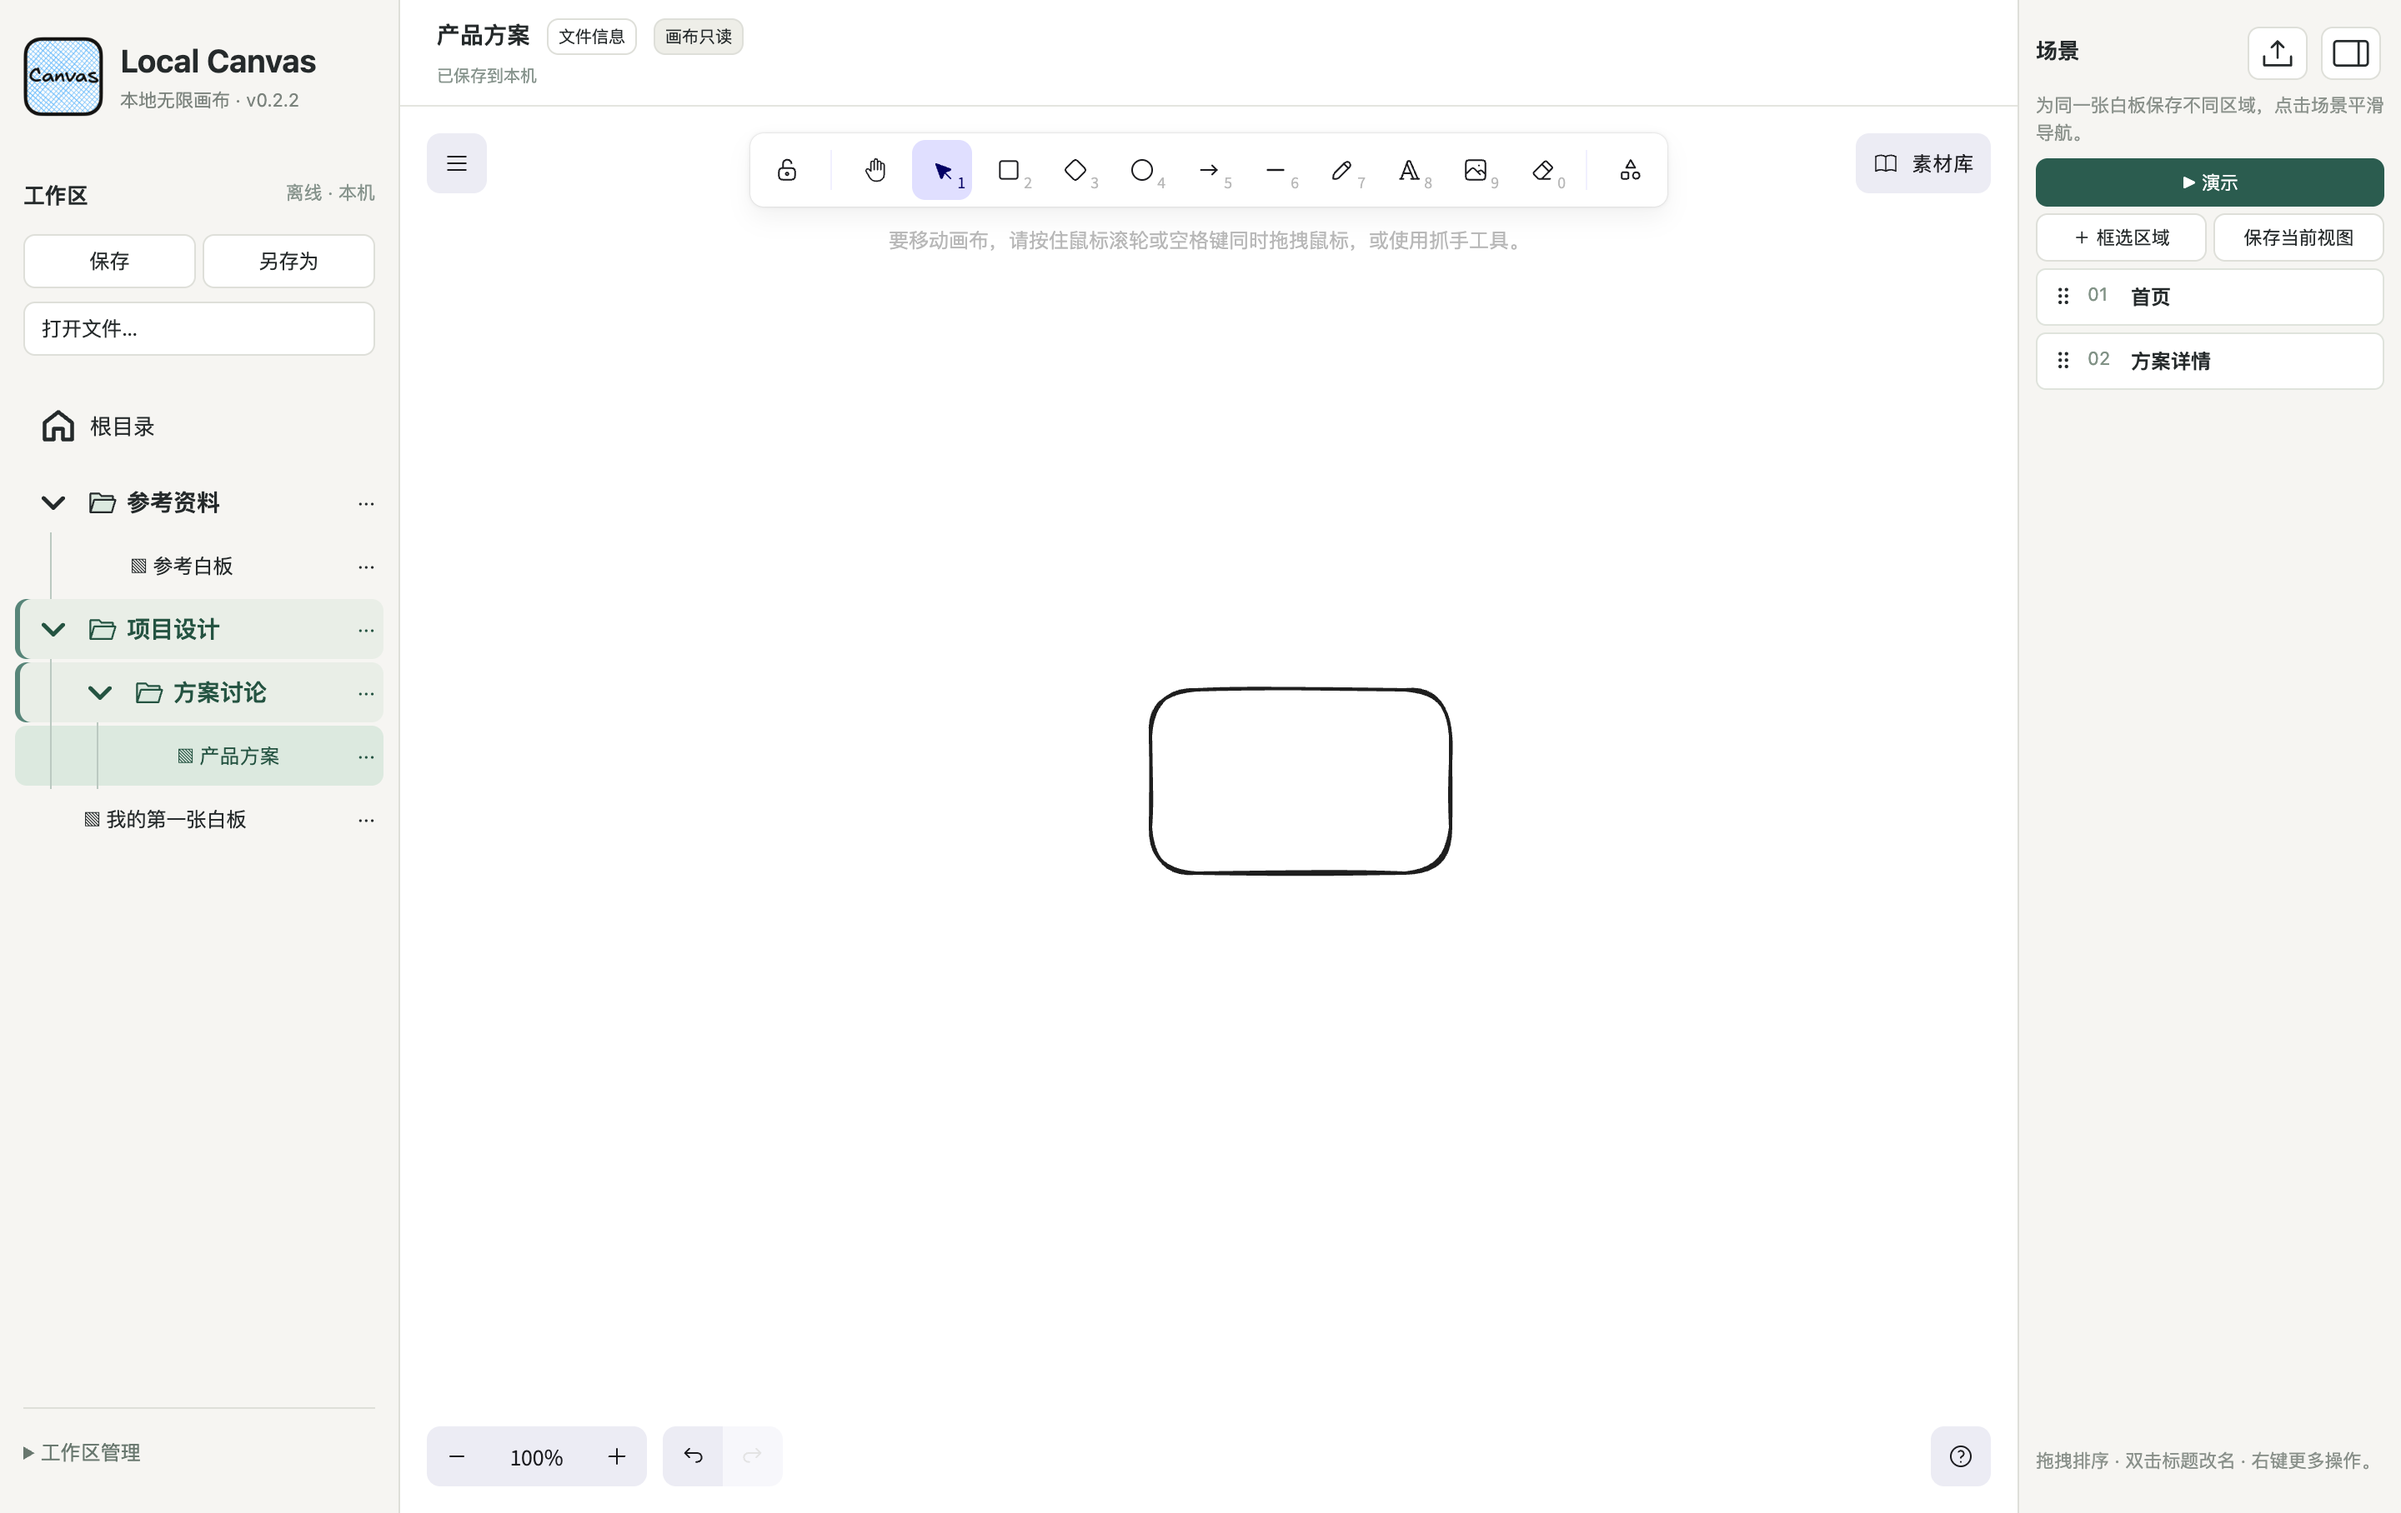
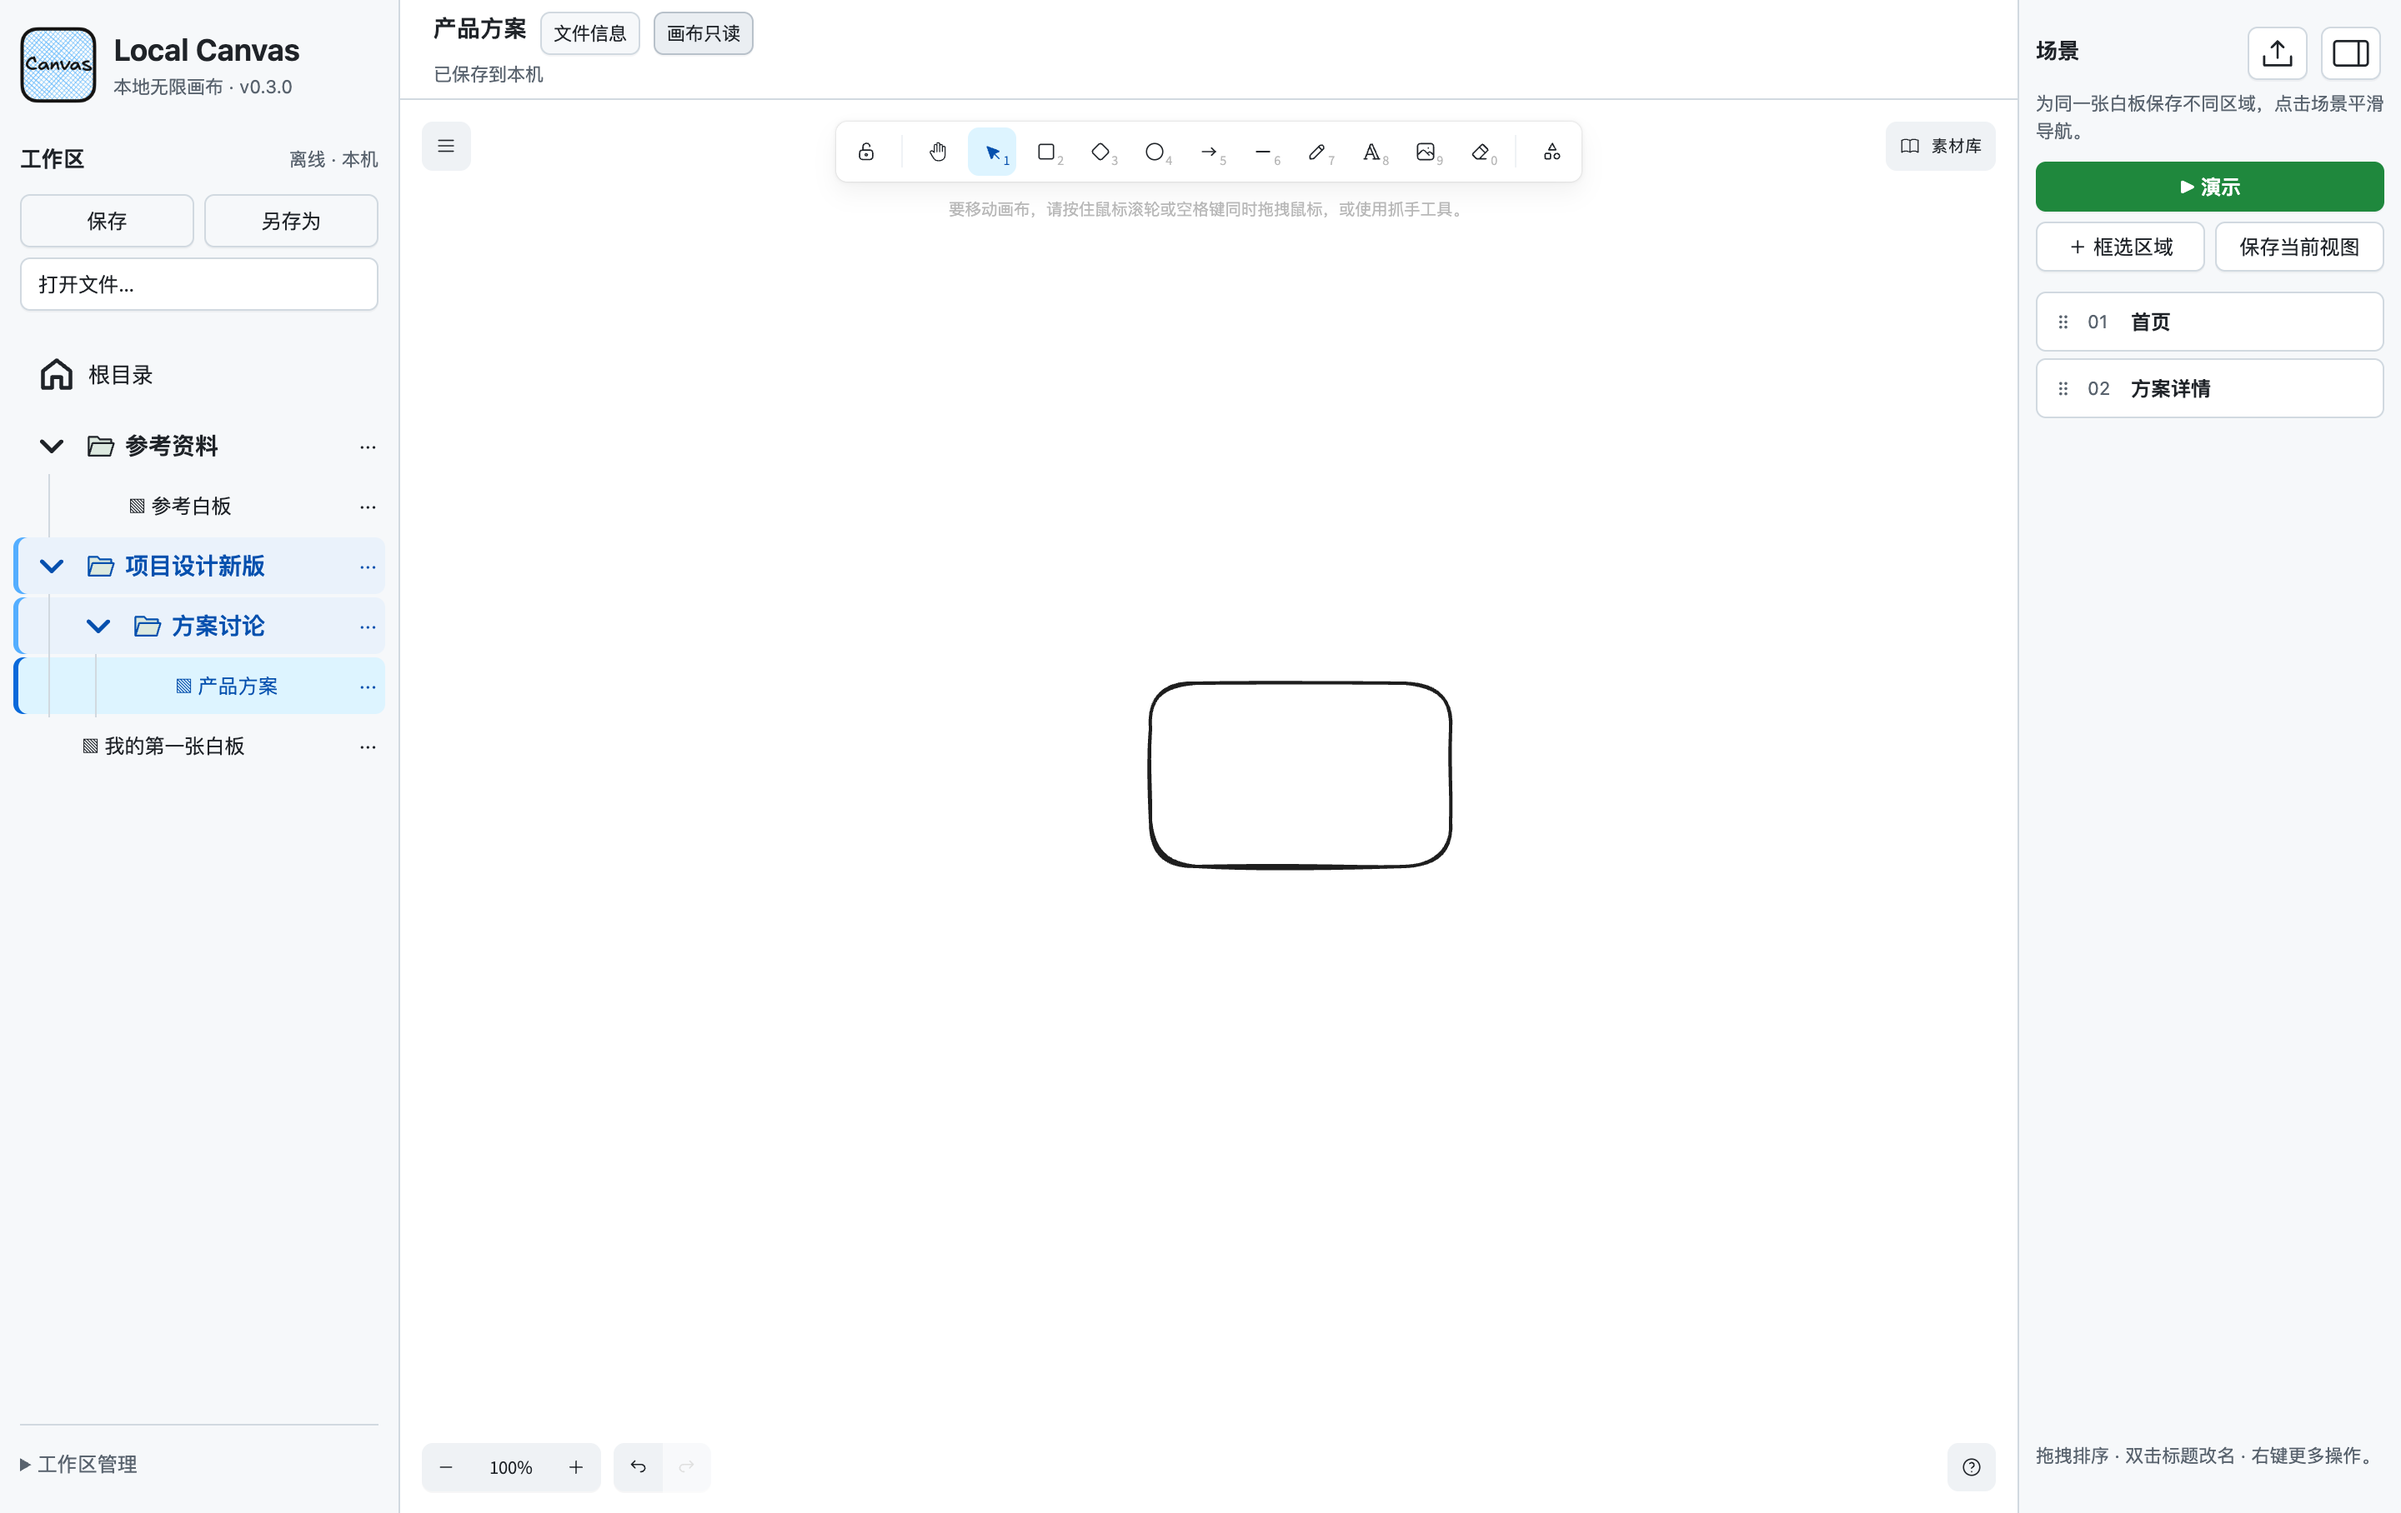
docs: showcase 0.3.0 GitHub-style workspace and separated menu forms

diff --git a/README.md b/README.md
@@ -17,6 +17,7 @@
 | 导航时长 | 编辑侧栏固定 0.5 秒；演示中的手动翻页与自动播放可选 0.5、1、1.5、2 秒 |
 | 全屏场景演示 | 从排序第一项开始，底部手动翻页或自动演示；图层面板可拖拽排序、右键原位改名，退出恢复编辑视图 |
 | 循环演示与只读浏览 | 自动演示可开启循环，末页回首页继续；独立“画布只读”禁止元素编辑、拖动和删除，同时允许平移缩放，保留原生工具锁的连续绘制语义 |
+| 统一工作区界面 | GitHub/Primer 风格浅色主题，灰白分区、蓝色选中态、细边框和紧凑间距；操作菜单、输入表单与危险操作独立分组 |
 | 文件打开与保存 | 系统窗口选择文件，手动保存写回原文件；另存为选择新位置，“文件信息”查看路径。内容自动保存到本机恢复副本，外部文件变更时拒绝覆盖 |
 | 演示临时画笔 | 直接使用 Excalidraw 原生自由画笔和样式面板，支持描边、背景、粗细及透明度；翻页或退出清除 |
 | 集中导出 | 右上角统一入口，可框选区域导出 PNG、SVG、PDF；支持整板、场景分页 PDF 及完整可编辑文档 |
@@ -25,11 +26,19 @@
 
 ## 编辑与场景管理
 
-当前桌面版本：**0.2.2**。文件树使用清晰缩进与层级引导线，当前文档及全部上级文件夹联动高亮；演示面板统一字号，支持循环开关。界面、macOS 应用、Windows 安装与免安装版使用同一款黑边框、透明连续圆角的 Canvas 网格手写 Logo。
+当前桌面版本：**0.3.0**。整体使用 GitHub/Primer 风格浅色界面；保留原生绘图、文件管理、可靠保存、场景与演示能力。Mac 图标使用独立平台布局，已在 Finder 中与系统应用并排核查显示占比，应用内与 Windows 的 Logo 样式不变。
 
 <img src="docs/local-canvas/logo.png" width="128" alt="Canvas 网格手写 Logo：黑色边框、透明连续圆角" />
 
-![Local Canvas 0.2.2 实机文件树与黑框新 Logo](docs/local-canvas/files-current.png)
+![Local Canvas 0.3.0 实机：GitHub 风格工作区、文件树和场景列表](docs/local-canvas/files-current.png)
+
+三点菜单只显示清楚分组的操作项。选择重命名或移动后才显示对应表单，输入与确认按钮分区；选择移动目标不会立即执行，回收站操作需确认。
+
+| 操作列表 | 重命名表单 | 移动表单 |
+| --- | --- | --- |
+| ![实机分组菜单](docs/local-canvas/menu-actions.png) | ![实机重命名输入与确认区](docs/local-canvas/menu-rename.png) | ![实机移动目标与确认区](docs/local-canvas/menu-move.png) |
+
+设计参考：[Primer ActionMenu](https://primer.style/product/components/action-menu/)、[Primer 色彩用法](https://primer.style/product/getting-started/foundations/color-usage/)。仅借鉴界面风格，不使用 GitHub 账户或联网服务。
 
 [演示面板统一字号实机截图](docs/local-canvas/presentation-fonts.png)
 
@@ -39,7 +48,7 @@
 
 临时画笔允许连续书写多笔，翻页及退出时清除；不写入文档、备份或 PDF。编辑和备份仍使用完整文档或 `.excalidraw` 格式。
 
-![0.2.2 演示面板：循环开关与独立的移动、停留时间](docs/local-canvas/presentation-loop.png)
+![演示面板：循环开关与独立的移动、停留时间](docs/local-canvas/presentation-loop.png)
 
 自动演示每页停留可选 1、2、3、5、10、15、30 秒（默认 3 秒），与移动时长分别设置。循环默认关闭：关闭时到末页停止，开启时自动回到首页继续；记住开关偏好，但不会在重启后自行播放。打开图层面板或启用临时画笔时暂停自动播放。
 

diff --git a/desktop/VALIDATION.md b/desktop/VALIDATION.md
@@ -1,5 +1,14 @@
 # Milestone validation — 2026-10-17
 
+## 0.3.0 — 2026-10-25
+
+- Production build and 12 unit/resource checks passed, including regular/retina ICNS entries and decoded RGBA bounds for the Mac platform icon (transparent padding and approximately 832px artwork).
+- Actual Mac arm64 packaged application passed the extended workspace regression: keyboard-triggered row-local menu, action groups without embedded fields, destructive styling, independent focused rename form, successful rename, non-empty-folder error in the popover, cancel without deletion, Home/End/Escape focus navigation, choosing a move target without moving until confirmation, ancestor highlighting, native read-only protection, looping presentation, uniform fonts and restart preferences.
+- The first complete editor regression attempt stopped at the previously observed native temporary-ink undo assertion. A second full packaged run passed drawing/undo/redo, scene selection/reordering/navigation, fullscreen layers/autoplay/ink, file links/conflict protection, graphics/PDF/document exports/imports, backup/restore, migration, close-time flush and restart. This is not a claim that the underlying intermittent ink-history issue was fixed.
+- Finder icon view on macOS 26.6.2 was inspected side-by-side with a system Calculator reference. The platform-specific ICNS showed comparable visible size and no obvious extra surrounding plate. The temporary reference link and task-created Finder window were cleaned up; no installed application was replaced and no icon cache was reset.
+- Mac packaged ICNS matches the committed source; deep/strict ad-hoc signature verification and ZIP integrity checks passed. Windows main EXE, NSIS installer and portable launcher retain the approved custom icon, and both executable archive tests passed. All 193 packaged JS/CSS files match byte-for-byte between Mac and Windows. No Windows runtime test, Apple notarization or Authenticode signing.
+- New menu screenshots are element captures from the running packaged app, not design mockups; overall and presentation/export screenshots were refreshed from actual regression runs.
+
 ## 0.2.2 — 2026-10-25
 
 - Production build and all 11 unit/resource checks passed.

diff --git a/desktop/CHANGELOG.md b/desktop/CHANGELOG.md
@@ -1,5 +1,13 @@
 # 修改记录
 
+## 2026-10-25 · 0.3.0 GitHub 风格 UI 与 Mac 图标占比
+
+- 统一为 GitHub/Primer 风格浅色主题：白色画布、浅灰侧栏、细边框、蓝色选中与焦点、绿色主操作和红色危险操作；整理旧 CSS 的重复覆盖。Excalidraw 原生控件采用同色系外观变量，不改写画布元素样式和字体数据；原生深色画布控件不强行套浅色变量。
+- 三点/右键菜单改为纯操作列表，创建、重命名/移动、回收站按分隔线分组。重命名和移动进入独立就地表单，取消与确认有独立底栏；移动选择不立即执行，回收站增加确认和关联文件不删除说明。
+- 保留空名称校验、非空文件夹保护；异步操作期间禁用表单，错误显示在当前弹层。支持初始焦点、Home/End/上下键、Tab 范围约束和 Esc 关闭；焦点回到触发项。
+- Mac ICNS 使用专用 832px 图像/1024px 画布布局，补齐常规小尺寸 ICNS 资源；在 Finder 中与系统计算器并排检查，显示面积接近且不再有明显的二次底板缩小。应用内与 Windows 仍使用原透明四角 Logo，不改变图形设计。生成脚本新增 mac-icon.swift，产物提交仓库，Windows 打包不需要 Swift。
+- 版本升为 0.3.0。功能与验证状态见 VALIDATION.md；默认分支仅同步说明和实机截图。
+
 ## 2026-10-25 · 0.2.2 循环演示、只读与图标
 
 - 演示底部增加“循环”开关，默认关；开启后末页按相同移动/停留时间返回首页，关闭后停止在末页。开关作为本机偏好保存，播放状态不保存；图层和画笔仍会暂停播放。

diff --git a/desktop/LOGO.md b/desktop/LOGO.md
@@ -1,8 +1,10 @@
-# Canvas logo — 0.2.2
+# Canvas logo — 0.3.0 platform layout (0.2.2 artwork)
 
 Input: user-supplied Canvas logo reference and the 0.2.1 derivative, 2026-10-25. The built-in image editing tool preserved the blue crosshatch and black handwritten Canvas word, changed the border to black, enlarged the lettering slightly and applied an approximate Apple-style continuous-corner app-icon silhouette. Outside corners are genuinely transparent, not a white corner backdrop. This is not the Apple symbol or a claim of exact proprietary mask geometry. No CLI image generation API was used.
 
 Project source: `build/app-icon.png` (1024px). Platform assets: `build/app-icon.ico`, `build/app-icon.icns`. README preview: `../docs/local-canvas/logo.png`. `node scripts/icons.mjs` performs deterministic size/format conversion on macOS using sips; it does not generate or redraw the design. These committed assets let Windows builds run without macOS conversion tools.
+
+0.3.0 adds `build/app-icon-mac.png`, mechanically fitting the unchanged artwork into an 832px area centered on a 1024px transparent canvas. `scripts/mac-icon.swift` uses AppKit for deterministic platform layout and `scripts/icons.mjs` builds the legacy ICNS (including regular small-size entries) from it. A Finder side-by-side comparison with the system Calculator icon confirmed comparable visible areas and no obvious secondary surrounding plate. This platform padding is not added to the in-app PNG or Windows ICO. The artwork editing prompt below is unchanged from 0.2.2; no new AI image generation was used for this release.
 
 Final editing prompt:
 

diff --git a/desktop/README.md b/desktop/README.md
@@ -87,7 +87,11 @@ Retain the repository root MIT `LICENSE` and `dist/EXCALIDRAW-LICENSE.txt`. `npm
 
 Official references: https://docs.excalidraw.com/docs/@excalidraw/excalidraw/api/props/excalidraw-api and https://github.com/excalidraw/excalidraw/blob/master/LICENSE.
 
-## Desktop 0.2.0 — file workflow
+## Desktop 0.3.0 — file workflow and UI
+
+The shell uses a GitHub/Primer-inspired light palette and grouped action menus. Row menus contain actions only; Rename and Move open separate anchored forms with Cancel and explicit confirmation. Choosing a target folder alone does not move a board. Trash has its own confirmation and retains recoverability. Native drawing colors, handwriting data, storage formats and presentation functionality are unchanged. `node tests/workspace.e2e.mjs` exercises the menu and workspace flows; the full regression is `npm run test:e2e`.
+
+Mac icon generation (`node scripts/icons.mjs`, macOS with Swift/AppKit and sips) uses `build/app-icon-mac.png` for legacy ICNS optical layout; the in-app PNG and Windows ICO retain the original full artwork. Generated assets are committed, so Windows packaging does not require Swift. See LOGO.md for the source and platform layout details.
 
 Right-click the workspace root or an existing folder to create boards/folders. Folder names are larger/bolder; the chevron collapses children. Row context menus stay at the click location, and drag-and-drop moves items into folders or back to the root. Logical workspace moves do not move external files.
 

diff --git a/desktop/NEXT-ITERATION.md b/desktop/NEXT-ITERATION.md
@@ -6,6 +6,8 @@
 
 ## 本轮状态
 
+2026-10-25 / 0.3.0：N40 三点菜单分组、独立输入/确认区、移动显式确认和回收站确认；N41 GitHub/Primer 风格浅色工作区、菜单、场景、演示与弹层统一；N42 Mac 专用图标布局与 Finder 系统图标对照核查。原生绘图和保存功能保持，专项与完整回归结果见验证记录。
+
 2026-10-25 / 0.2.2：N36 自动演示循环开关与偏好持久化；N37 黑框、略大字、透明外角、连续圆角 Logo；N38 房屋与展开箭头加粗放大；N39 核实原生工具锁语义，增加不改变元素锁定属性的独立“画布只读”入口。
 
 2026-10-25 / 0.2.1：N32 明显缩进与层级引导线；N33 当前文档全部祖先文件夹高亮，取消其他路径残留；N34 演示各面板字号统一；N35 用户参考 Logo 边框加粗加深，覆盖界面、Mac 与 Windows（含免安装版）图标。
